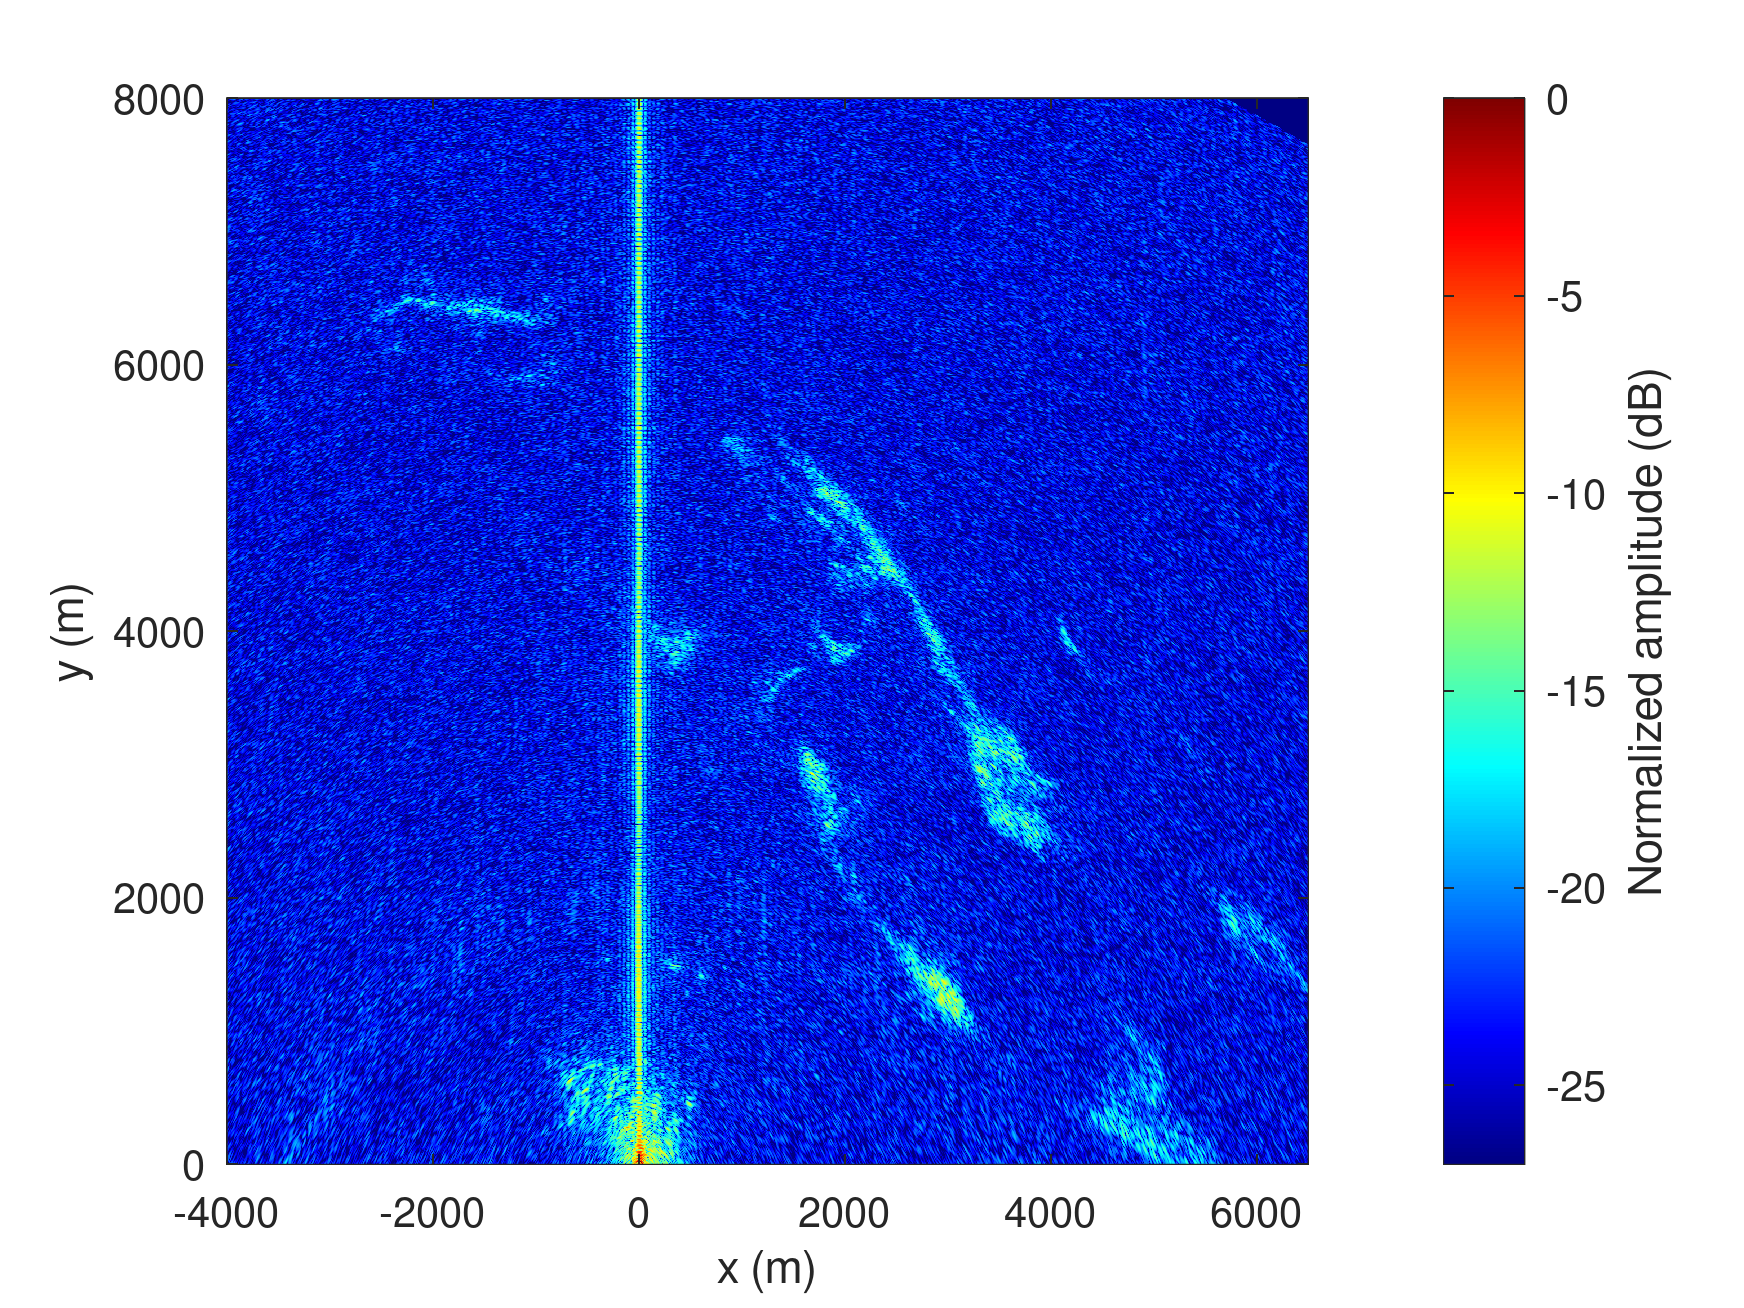
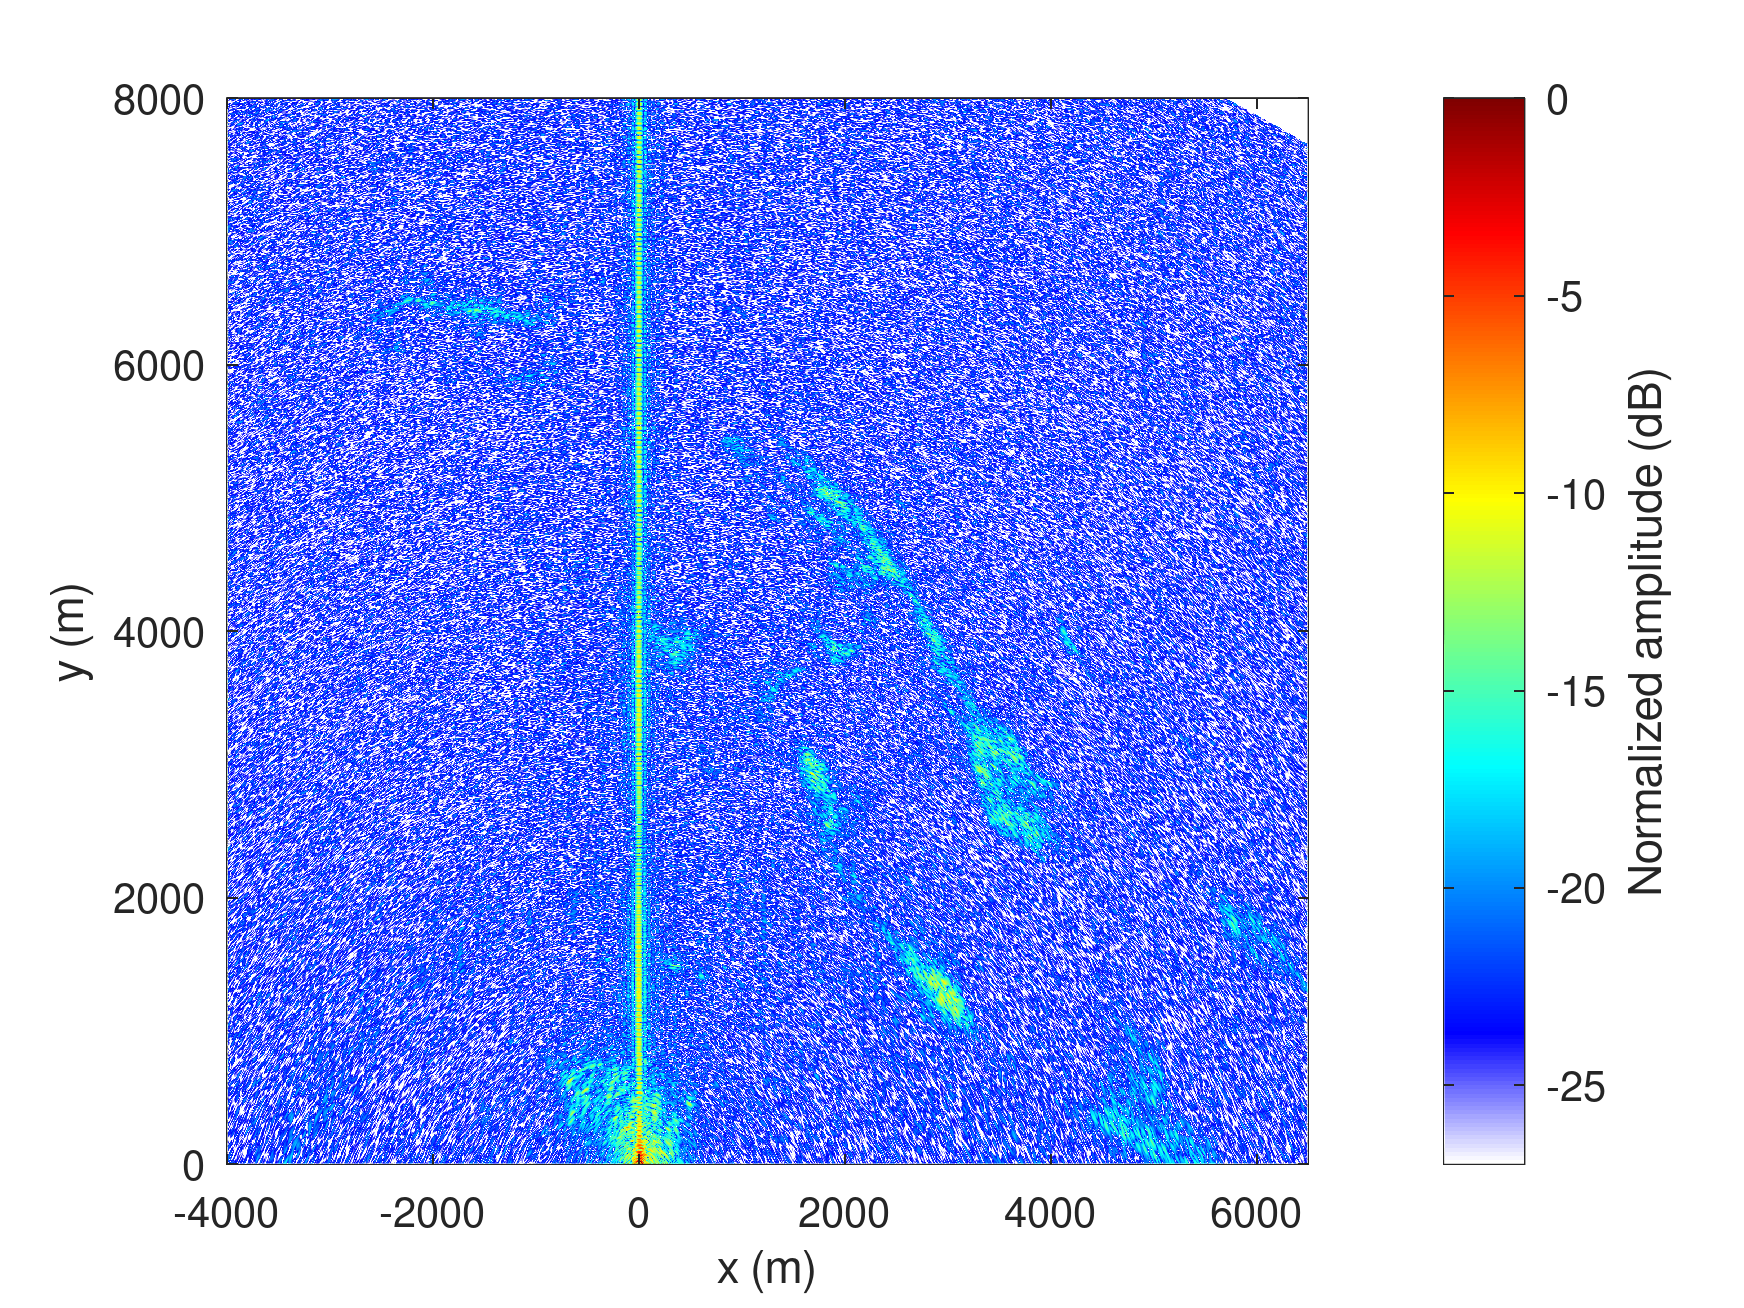
update MAX2771

Changed region(s): [[0.1239, 0.0612, 0.7741, 0.8869], [0.805, 0.7951, 0.8979, 0.8869]]

diff --git a/260530/MAX2771/README.md b/260530/MAX2771/README.md
@@ -6,3 +6,5 @@ the time when the beam illuminated the receivers
 <img src="alphabeta.png">
 
 <img src="XY.png">
+
+<img src="Layout.png">